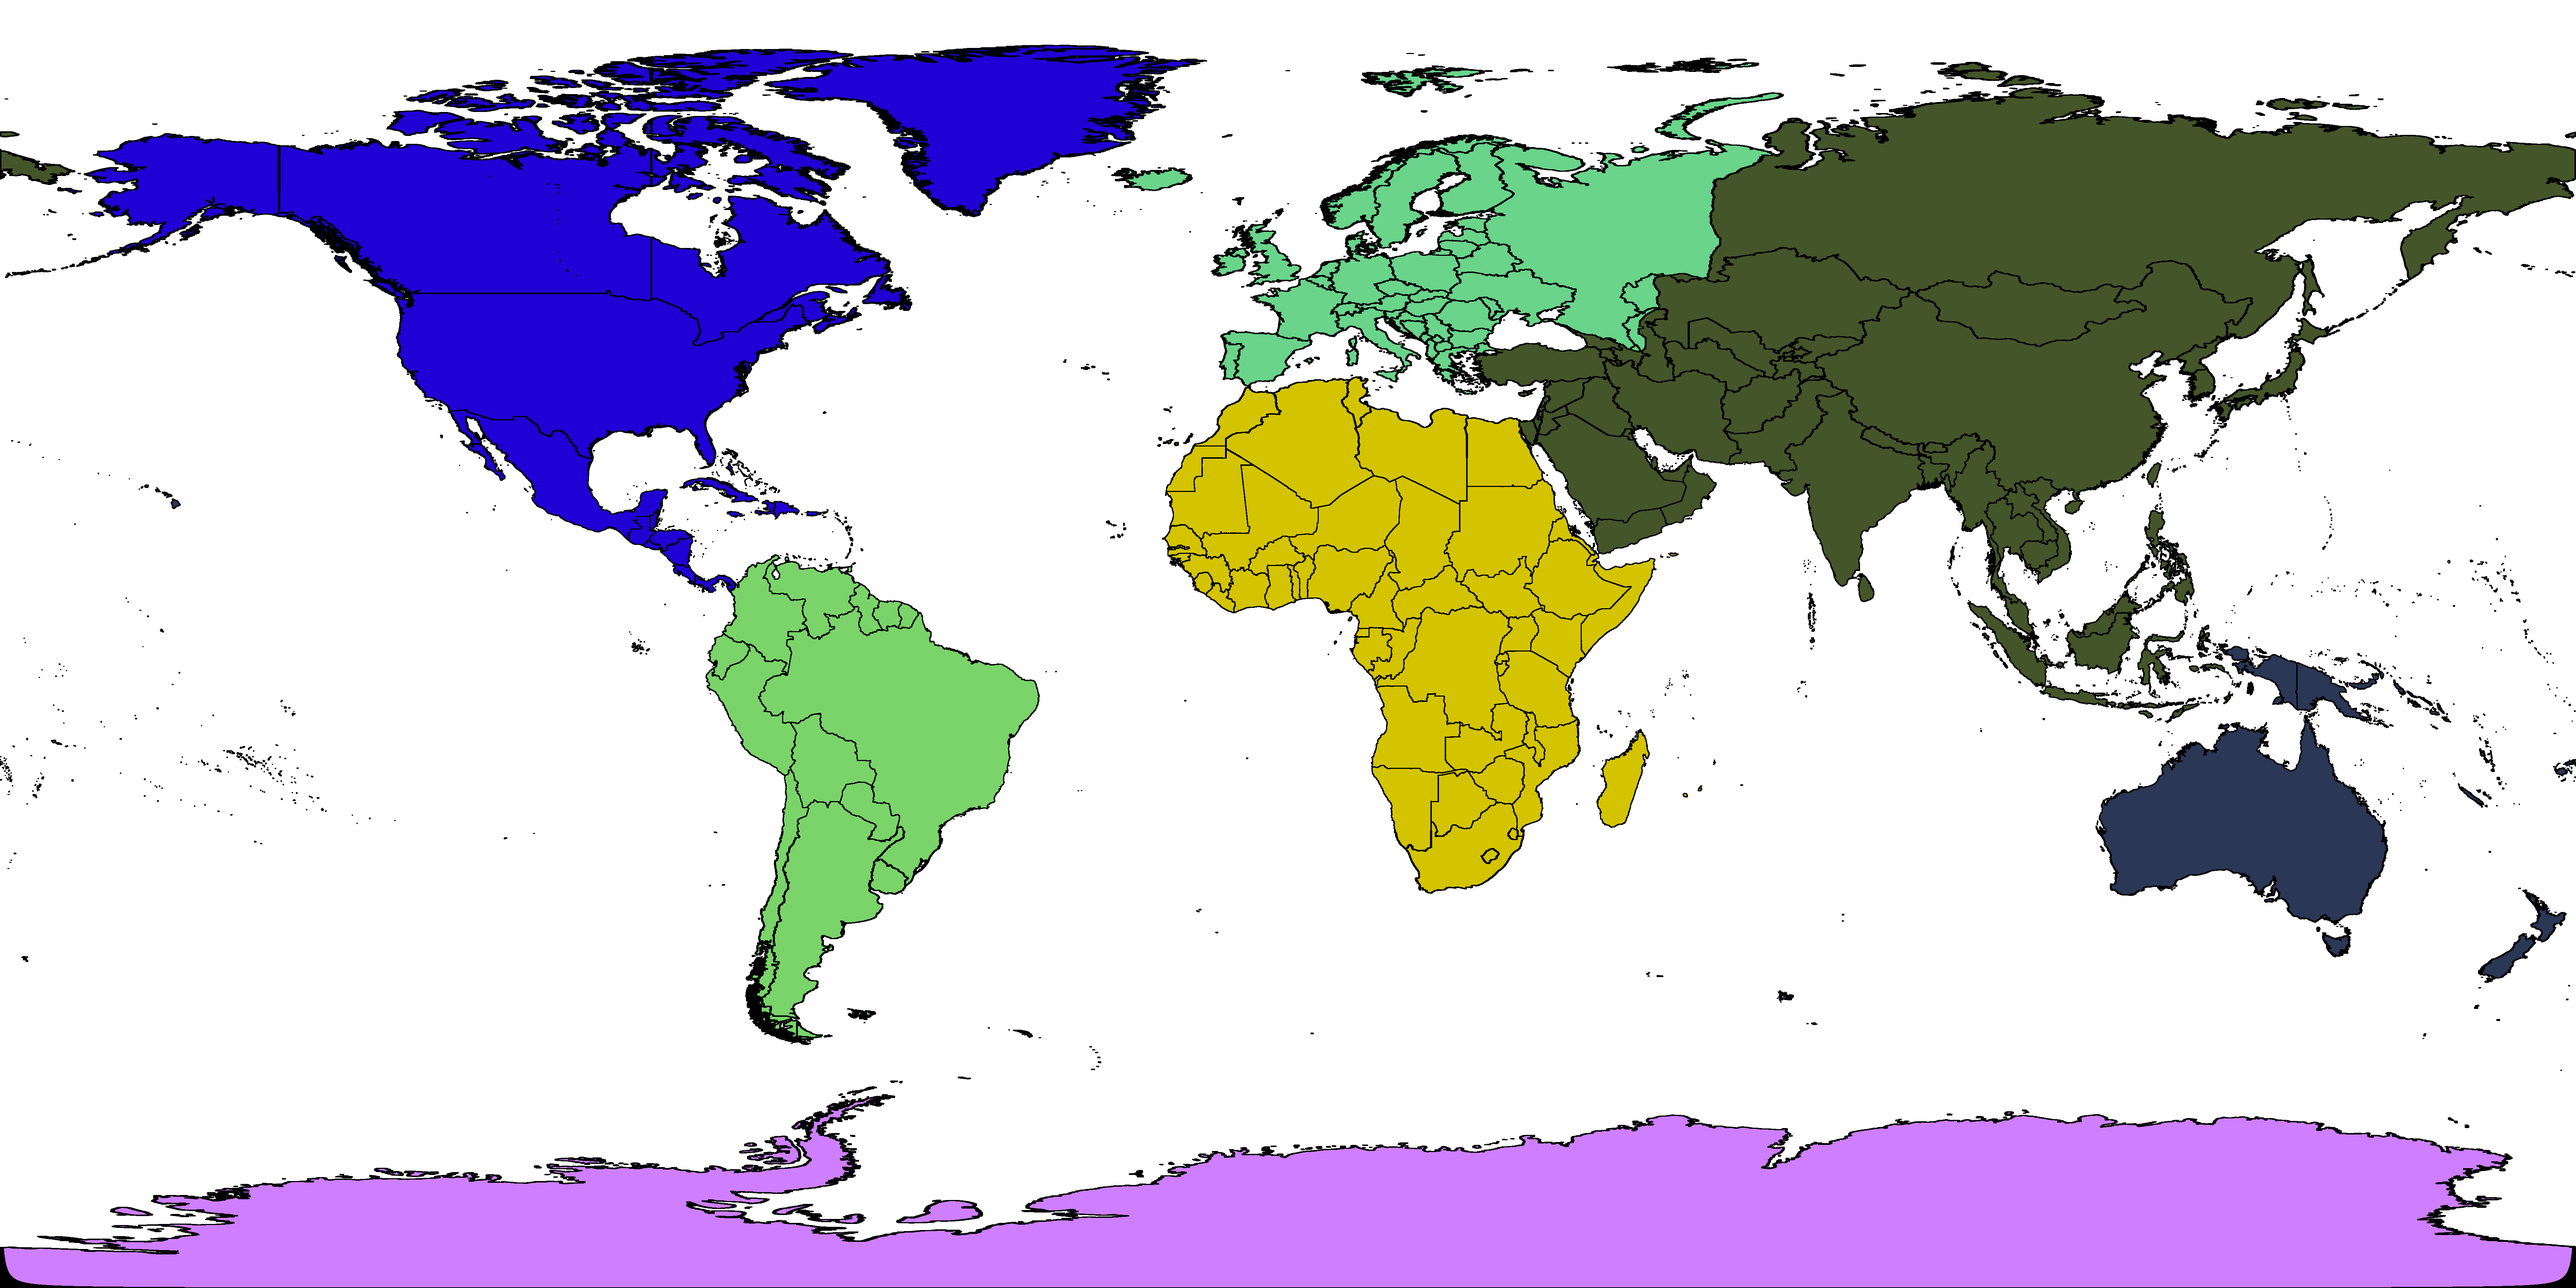
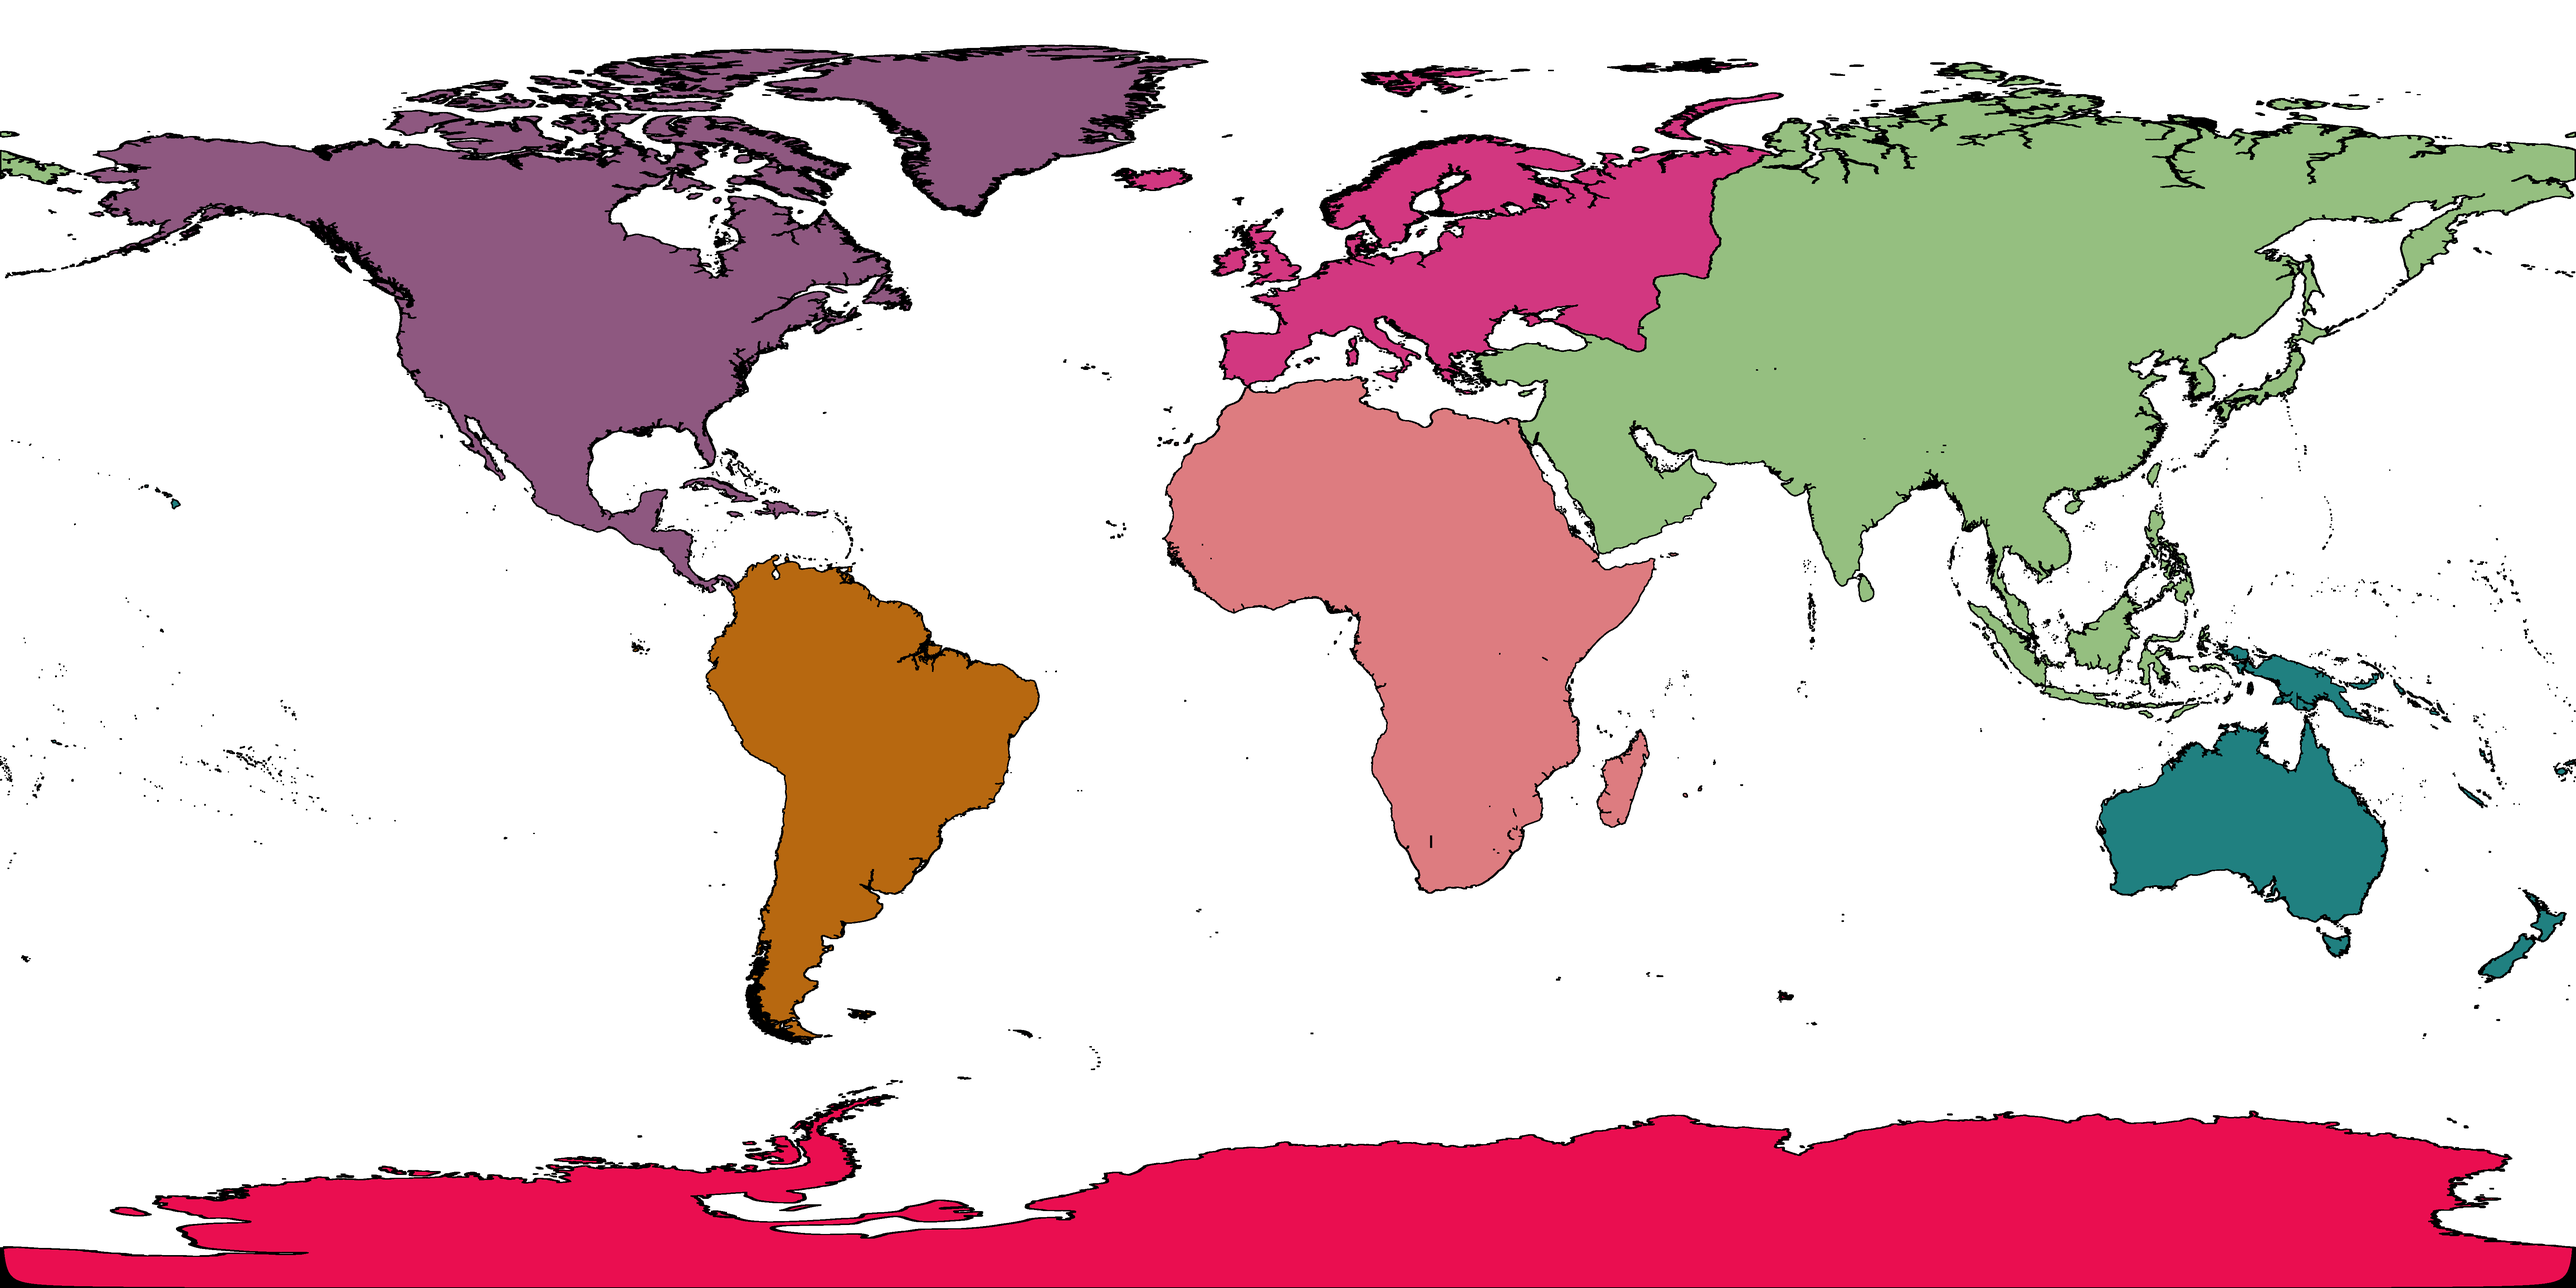
Use ESRI countries and IHO to generate continent layers.

diff --git a/geocode-ws/src/main/resources/public/interface.js b/geocode-ws/src/main/resources/public/interface.js
@@ -137,7 +137,7 @@ function countryStyle() {
 
 		if (feature.get('type') == 'PoliticalEEZ') {
 			pattern = makePatternB(colour);
-		} else if (feature.get('type') == 'GADM3') {
+		} else if (feature.get('type') == 'GADM3' || feature.get('type') == 'IHO') {
 			pattern = makePatternH(colour);
 		} else {
 			pattern = makePatternF(colour);
